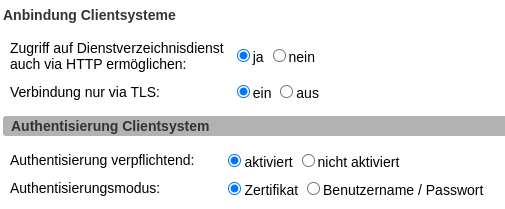
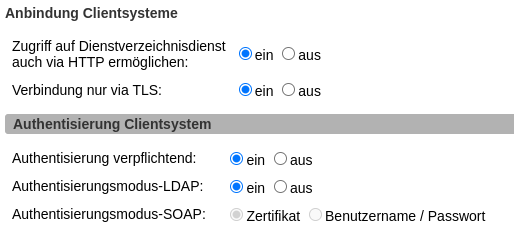
basic auth for fetch sds

diff --git a/docs/cocard/admin/connector-edit.html b/docs/cocard/admin/connector-edit.html
@@ -210,8 +210,10 @@
 <div class="paragraph">
 <p>Idealerweise konfiguriert man alle Konnektoren so, dass man mit einem Default-Kontext alle Konnektordaten, Kartenterminals und Karten abfragen kann. In diesem Falle genügt ein einziger Kontext. Nur wenn es Kartenterminals oder Karten gibt, die man über diesen Kontext nicht abfragen kann, sind weitere Kontexte erforderlich.</p>
 </div>
-<div class="paragraph">
-<p><span class="image"><img src="../_images/connector/connector-edit-http.png" alt="connector edit http"></span></p>
+<div class="imageblock">
+<div class="content">
+<img src="../_images/connector/connector-edit-http.png" alt="connector edit http">
+</div>
 </div>
 <table class="tableblock frame-all grid-all stretch">
 <caption class="title">Table 1. Konnektor: Felder</caption>
@@ -275,11 +277,37 @@
 <div class="paragraph">
 <p>Nach dem Speichern mit einem zugewiesenen Kontext betätigt man einmal den Button <b class="button">Abfrage SDS</b>. Damit erhält Cocard die Informationen über die einzelnen Services und Endpunkte, die für die Abfrage von Informationen per SOAP über die von der Gematik definierten Funktionen erforderlich sind. Cocard aktualisiert diese Information einmal pro Tag danach automatisch.</p>
 </div>
-<div class="paragraph">
-<p><span class="image"><img src="../_images/connector/connector-fetch-sds-button.png" alt="connector fetch sds button"></span></p>
+<div class="imageblock">
+<div class="content">
+<img src="../_images/connector/connector-fetch-sds-button.png" alt="connector fetch sds button">
+</div>
 </div>
 <div class="paragraph">
 <p>Mit der Information aus dem Service Directory Service (SDS) kann Cocard Kartenterminals und Karten abfragen. Die Abfrage erfolgt dabei mehrmals pro Stunde (bis auf das SDS selbst). Details zu den Zeitinterfallen sind in <a href="jobs.html" class="xref page">Jobverwaltung</a> beschrieben.</p>
+</div>
+<div class="admonitionblock note">
+<table>
+<tr>
+<td class="icon">
+<i class="fa icon-note" title="Note"></i>
+</td>
+<td class="content">
+Für die Abfrage des Service Directory Service (SDS) verwendet Cocard TLS, wenn die <em>SDS-URL</em> mit <code>https</code> beginnt. Der Schalter <em>TLS verwenden</em> spielt hier keine Rolle.
+</td>
+</tr>
+</table>
+</div>
+<div class="admonitionblock note">
+<table>
+<tr>
+<td class="icon">
+<i class="fa icon-note" title="Note"></i>
+</td>
+<td class="content">
+Die KoCoBox ignoriert die Einstellung <em>Zugriff auf Diensteverzeichnis auch via HTTP ermöglichen</em>, wenn <em>Verbindung nur via TLS</em> aktiv ist. In dem Falle kann die SDS-Abfrage nur via TLS erfolgen.
+</td>
+</tr>
+</table>
 </div>
 </div>
 </div>
@@ -289,9 +317,11 @@
 <div class="paragraph">
 <p>Für eine sichere Kommunikation zwischen Client (Primärsystem, z.B. Cocard) und dem Konnektor aktiviert man TLS und die Authentifikation per Client-Zertifikat. Die nachstehende Abbildung zeigt die Einstellungen für die Kocobox v5.1.8. Für manche Szenarien wie die Komfortsignatur ist die sichere Kommunikation zwingend erforderlich.</p>
 </div>
-<div class="paragraph">
-<div class="title">TLS und Authentifikation auf der Kocobox aktivieren: <span class="menuseq"><b class="menu">Verwaltung</b>&#160;<i class="fa fa-angle-right caret"></i> <b class="menuitem">Clientsysteme</b></span></div>
-<p><span class="image"><img src="../_images/connector/kocobox-tls-auth-client.png" alt="kocobox tls auth client"></span></p>
+<div class="imageblock">
+<div class="content">
+<img src="../_images/connector/kocobox-tls-auth-client.png" alt="kocobox tls auth client">
+</div>
+<div class="title">Abbildung 1. TLS und Authentifikation auf der Kocobox aktivieren: <span class="menuseq"><b class="menu">Verwaltung</b>&#160;<i class="fa fa-angle-right caret"></i> <b class="menuitem">Clientsysteme</b></span></div>
 </div>
 <div class="admonitionblock note">
 <table>
@@ -327,8 +357,10 @@ Cocard kann sich derzeit nur über Client-Zertifikate authentifizieren, eine Aut
 <div class="paragraph">
 <p>Nach dem Speichern holt man manuell einmal die SDS-Informationen mit dem Button <b class="button">Abfrage SDS</b>.</p>
 </div>
-<div class="paragraph">
-<p><span class="image"><img src="../_images/connector/connector-edit-https-cert.png" alt="connector edit https cert"></span></p>
+<div class="imageblock">
+<div class="content">
+<img src="../_images/connector/connector-edit-https-cert.png" alt="connector edit https cert">
+</div>
 </div>
 <div class="sect2">
 <h3 id="_welche_client_zertifikate_müssen_hinterlegt_werden"><a class="anchor" href="#_welche_client_zertifikate_müssen_hinterlegt_werden"></a>Welche Client-Zertifikate müssen hinterlegt werden?</h3>
@@ -354,6 +386,53 @@ Cocard kann sich derzeit nur über Client-Zertifikate authentifizieren, eine Aut
 <div class="paragraph">
 <p>Am Konnektor selbst muss der Kontext <code>Ein1 - iMedOne - Konnektor</code> nicht eingetragen werden, wenn hier keine zusätzlichen Kartenterminals oder Karten sichtbar werden, d.h. wenn alles schon über den <code>Service_Mandant - intern - Konnektor</code> erreichbar ist.</p>
 </div>
+</div>
+</div>
+</div>
+<div class="sect1">
+<h2 id="_authentifikation_per_userpasswort"><a class="anchor" href="#_authentifikation_per_userpasswort"></a>Authentifikation per User/Passwort</h2>
+<div class="sectionbody">
+<div class="paragraph">
+<p>Ab Cocard v0.5.0 ist die Authentifikation alternativ mit User/Passwort möglich. Die Passwort-Authentifikation muss hierfür am Konnektor aktiviert sein. Hier ein Beispiel für die KoCoBox:</p>
+</div>
+<div class="imageblock">
+<div class="content">
+<img src="../_images/connector/kocobox-tls-auth-client-passwd.png" alt="kocobox tls auth client passwd">
+</div>
+<div class="title">Abbildung 2. KoCoBox Firmware 5.5.12</div>
+</div>
+<div class="admonitionblock note">
+<table>
+<tr>
+<td class="icon">
+<i class="fa icon-note" title="Note"></i>
+</td>
+<td class="content">
+User/Passwort-Authentifikation lässt sich auf der KoCoBox Firmware v5.5.12 nur noch aktivieren, wenn Authentisierungsmodus-LDAP ausgeschaltet ist.
+</td>
+</tr>
+</table>
+</div>
+<div class="paragraph">
+<p>Wählt man bei Authentifikation <em>User/Passwort</em> aus, erscheinen die Eingabefelder für Benutzer und Passwort.</p>
+</div>
+<div class="imageblock">
+<div class="content">
+<img src="../_images/connector/connector-edit-basicauth.png" alt="connector edit basicauth">
+</div>
+<div class="title">Abbildung 3. User/Passwort-Authentifikation konfigurieren</div>
+</div>
+<div class="admonitionblock note">
+<table>
+<tr>
+<td class="icon">
+<i class="fa icon-note" title="Note"></i>
+</td>
+<td class="content">
+In Cocard kann man pro Konnektor nur einen Benutzer hinterlegen. Auf Konnektorseite kann man aber diesen Benutzer für mehrere Client-Systeme verwenden (zumindest bei der KoCoBox).
+</td>
+</tr>
+</table>
 </div>
 </div>
 </div>

diff --git a/docs/cocard/changelog.html b/docs/cocard/changelog.html
@@ -203,6 +203,9 @@
 <div class="ulist">
 <ul>
 <li>
+<p>Neu: <a href="admin/connector-edit.html#_authentifikation_per_userpasswort" class="xref page">Client-Authentifikation am Konnektor mit User/Passwort</a> (alternativ zum Client-Zertifikat)</p>
+</li>
+<li>
 <p>Fix: Löschen von Objekten mit verbesserter Fehlermeldung</p>
 </li>
 </ul>

diff --git a/app/services/connector_services/fetch.rb b/app/services/connector_services/fetch.rb
@@ -25,10 +25,14 @@ module ConnectorServices
       connector.touch(:last_check)
       begin
         conn_options = faraday_options
-        if use_tls && use_cert
+        if use_tls
           conn_options = conn_options.merge(tls_options)
         end
-        conn = Faraday.new(conn_options)
+        conn = Faraday.new(conn_options) do |builder|
+                 if use_basicauth
+                   builder.request :authorization, :basic, auth_user, auth_password
+                 end
+               end
         response = conn.get(uri_path)
 
         unless response.success?
@@ -90,8 +94,8 @@ module ConnectorServices
     end
 
     def uri_base
-      scheme = ( connector.use_tls ) ? 'https' : 'http'
-      "#{scheme}://#{uri.host}"
+      # scheme = ( connector.use_tls ) ? 'https' : 'http'
+      "#{uri.scheme}://#{uri.host}"
     end
 
     def uri_path
@@ -99,13 +103,12 @@ module ConnectorServices
     end
 
     def tls_options
-      {
-        ssl: {
-          client_cert: auth_cert,
-          client_key: auth_pkey,
-          verify: false
-        }
-      }
+      if use_cert
+        sslopts = { client_cert: auth_cert, client_key: auth_pkey }
+      else
+        sslopts = {}
+      end
+      { ssl: sslopts.merge({ verify: false }) }
     end
 
     def client_certificate
@@ -113,11 +116,16 @@ module ConnectorServices
     end
 
     def use_tls
-      @connector.use_tls
+      # @connector.use_tls
+      uri.scheme == 'https'
     end
 
     def use_cert
       @connector.authentication == 'clientcert'
+    end
+
+    def use_basicauth
+      @connector.authentication == 'basicauth'
     end
 
     def auth_cert
@@ -126,6 +134,14 @@ module ConnectorServices
 
     def auth_pkey
       client_certificate&.private_key
+    end
+
+    def auth_user
+      @connector.auth_user
+    end
+
+    def auth_password
+      @connector.auth_password
     end
   end
 end

diff --git a/spec/services/connector_services/real_fetch_spec.rb b/spec/services/connector_services/real_fetch_spec.rb
@@ -1,0 +1,39 @@
+require 'rails_helper'
+
+# real fetch with --tag soap
+
+module ConnectorServices
+  RSpec.describe Fetch, :soap => true do
+    let(:connector) do
+      FactoryBot.create(:connector,
+        ip: ENV['SDS_IP'],
+        use_tls: ENV['USE_TLS'] || false,
+        authentication: ENV['AUTHENTICATION'] || 'noauth',
+        auth_user: ENV['AUTH_USER'],
+        auth_password: ENV['AUTH_PASSWORD'],
+        sds_url: ENV['SDS_URL']
+      )
+    end
+    subject { ConnectorServices::Fetch.new( connector: connector) }
+
+    describe '#call' do
+      describe 'with status 200' do
+        let(:result) { subject.call }
+        # it { puts result.error_messages.inspect }
+
+        it { expect(result.success?).to be_truthy }
+        it { expect(result.respond_to?(:error_messages)).to be_truthy }
+        it { expect(result.respond_to?(:sds)).to be_truthy }
+        it { expect(result.error_messages.present?).to be_falsey }
+        it { expect(result.sds).to be_present }
+        it { expect(result.sds.keys).to include( "TLSMandatory", "ClientAutMandatory",
+                                          "ProductInformation", "ServiceInformation") }
+        it 'updates last_check' do
+          expect do
+            subject.call
+          end.to change(connector, :last_check)
+        end
+      end
+    end
+  end
+end
